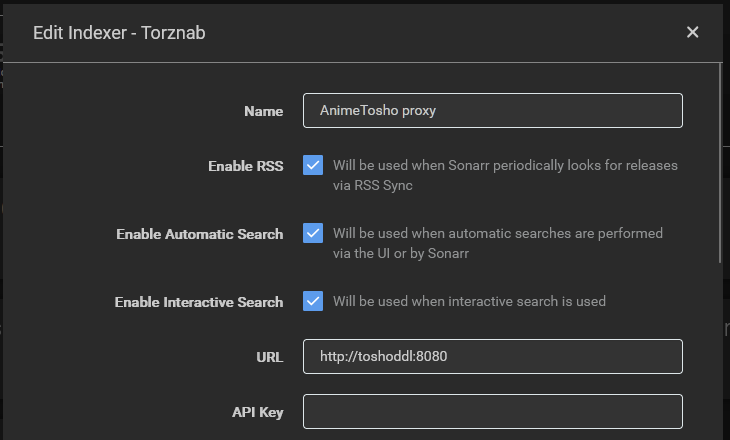
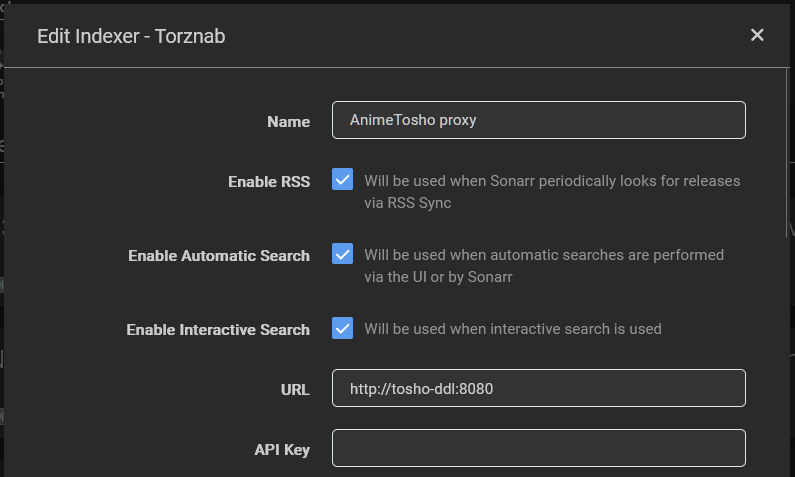
Update README.md and CI

diff --git a/README.md b/README.md
@@ -8,17 +8,20 @@ The easiest way to set this up is through Docker, although you can also use the 
 2. Make a `docker-compose.yaml` file with these contents:
 ~~~yaml
 services:
-  toshoddl:
+  tosho-ddl:
     container_name: toshoddl-docker
     image: ghcr.io/realsz27/tosho-ddl:latest
     environment:
       - JDOWNLOADER_API_URL: http://jdownloader-2:3128/
-      - BASE_URL: http://jdownloader-2:8080/
+      - BASE_URL: http://tosho-ddl:8080/
     volumes:
       - ./config/downloads:/downloads
       - ./config/blackhole:/blackhole
         
-  # Thanks jlesage for making this container
+  # You don't have to use this container, or any container
+  # for that matter. Any JDownloader instance will work.
+  # Just make sure you have properly set JDOWNLOADER_API_URL and
+  # BASE_URL so that JDownloader can contact the app, and vice versa.
   jdownloader-2:
     container_name: jdownloader-docker
     image: jlesage/jdownloader-2
@@ -44,7 +47,7 @@ Most of these don't need to be changed.
 ## Setup Sonarr
 1. In the `Download Clients` settings page, add a new `Torrent Blackhole` and set the `Torrent Folder` and `Watch Folder` to your blackhole and downloads folders respectively. Make sure Sonarr can access these folders, of course.
 ![blackhole-img.png](images/blackhole-img.png)
-2. Next, in the `Indexers` settings page, add a new `Torznab` indexer and set the URL to `http://toshoddl:8080` and select everything available in `Categories` and `Anime Categories`.
+2. Next, in the `Indexers` settings page, add a new `Torznab` indexer and set the URL to `http://tosho-ddl:8080` and select everything available in `Categories` and `Anime Categories`.
 ![torznab-1.png](images/torznab-1.png)
 ![torznab-2.png](images/torznab-2.png)
 Just to be sure, you can also set `Download Client` to the Torrent Blackhole with advanced settings turned on.
